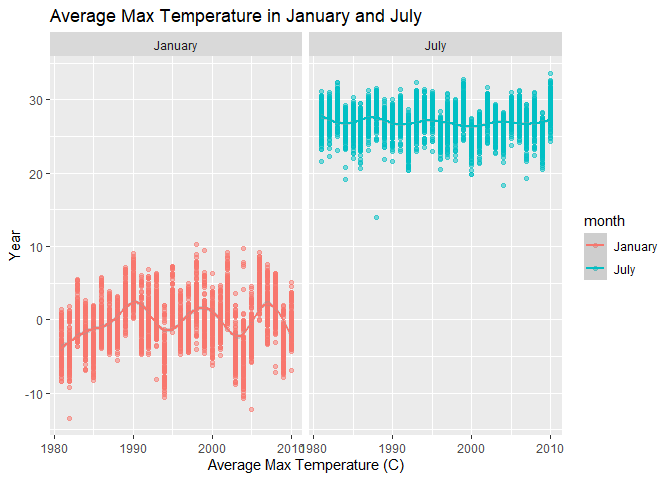
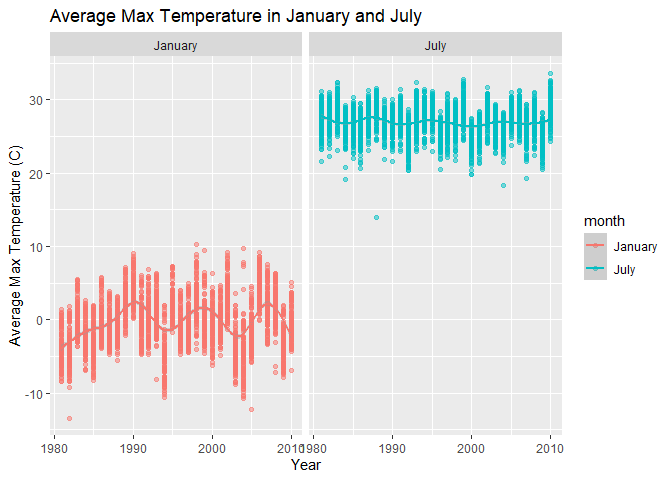
Problem 3 question 2: switch the x and y axis labels.

Changed region(s): [[0.3125, 0.9375, 0.5938, 1.0], [0.0, 0.3125, 0.0312, 0.7188]]

diff --git a/p8105_hw3_qz2266.md b/p8105_hw3_qz2266.md
@@ -344,8 +344,8 @@ jan_july %>% ggplot(aes(x = year, y = mean_tmax, color = month)) +
   geom_point(alpha = 0.5) + 
   geom_smooth() + 
   labs(title = "Average Max Temperature in January and July ",
-    y = "Year",
-    x = "Average Max Temperature (C)" ) +
+    x = "Year",
+    y = "Average Max Temperature (C)" ) +
   facet_grid(~month) 
 ```
 
